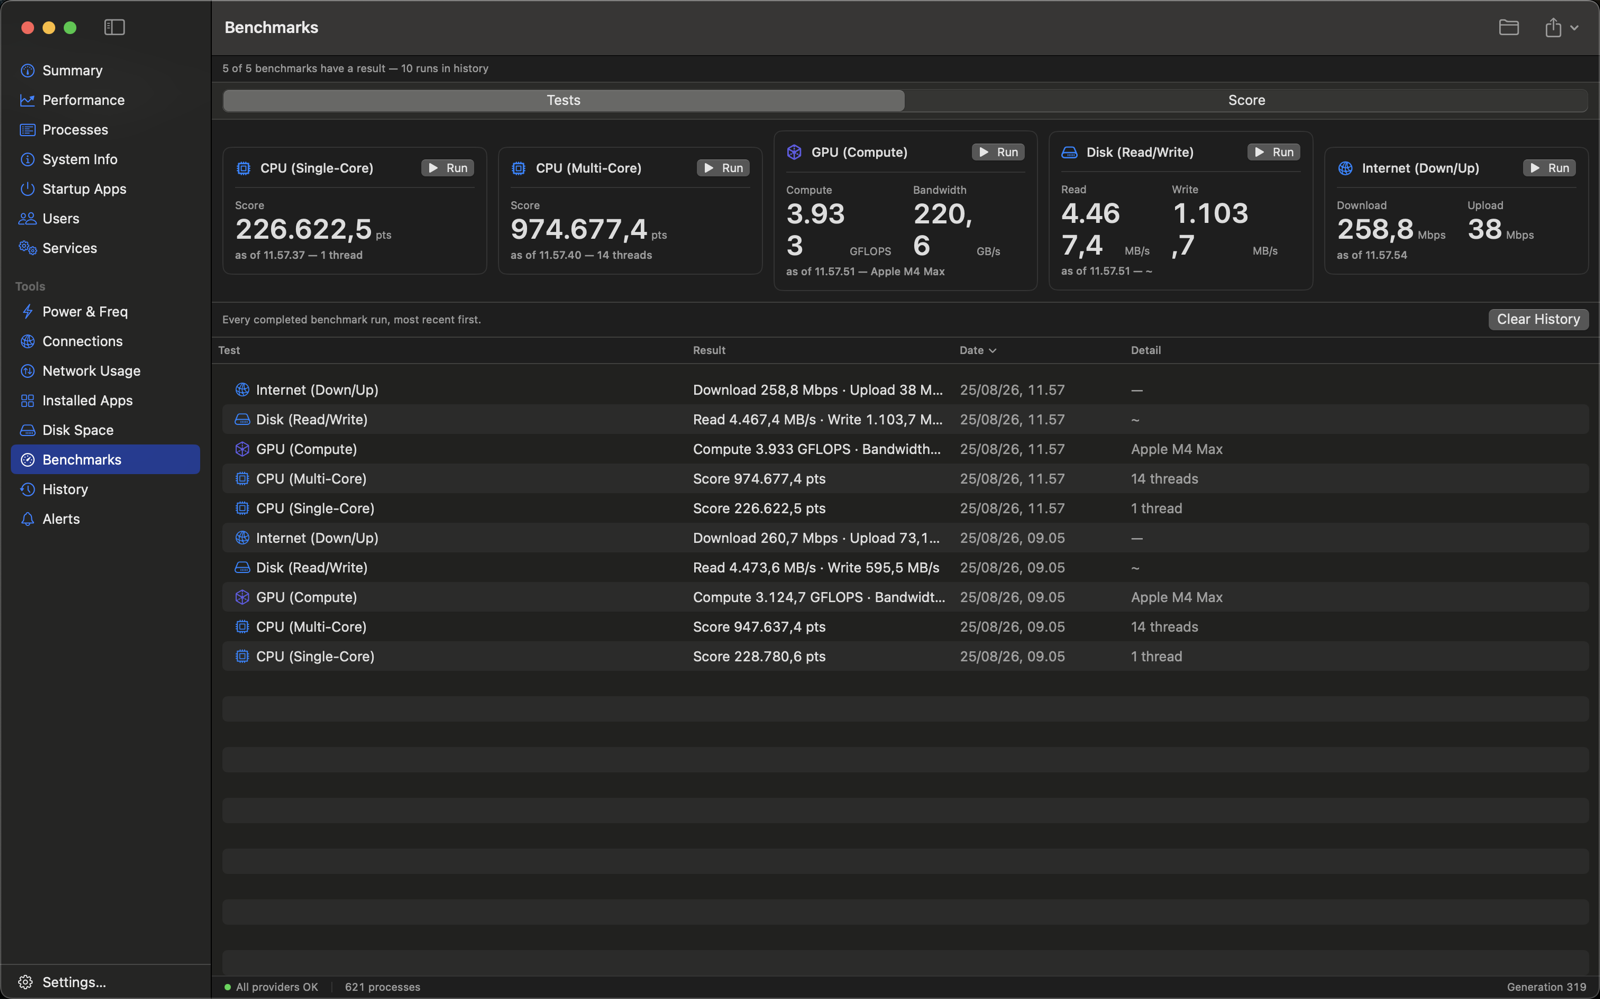
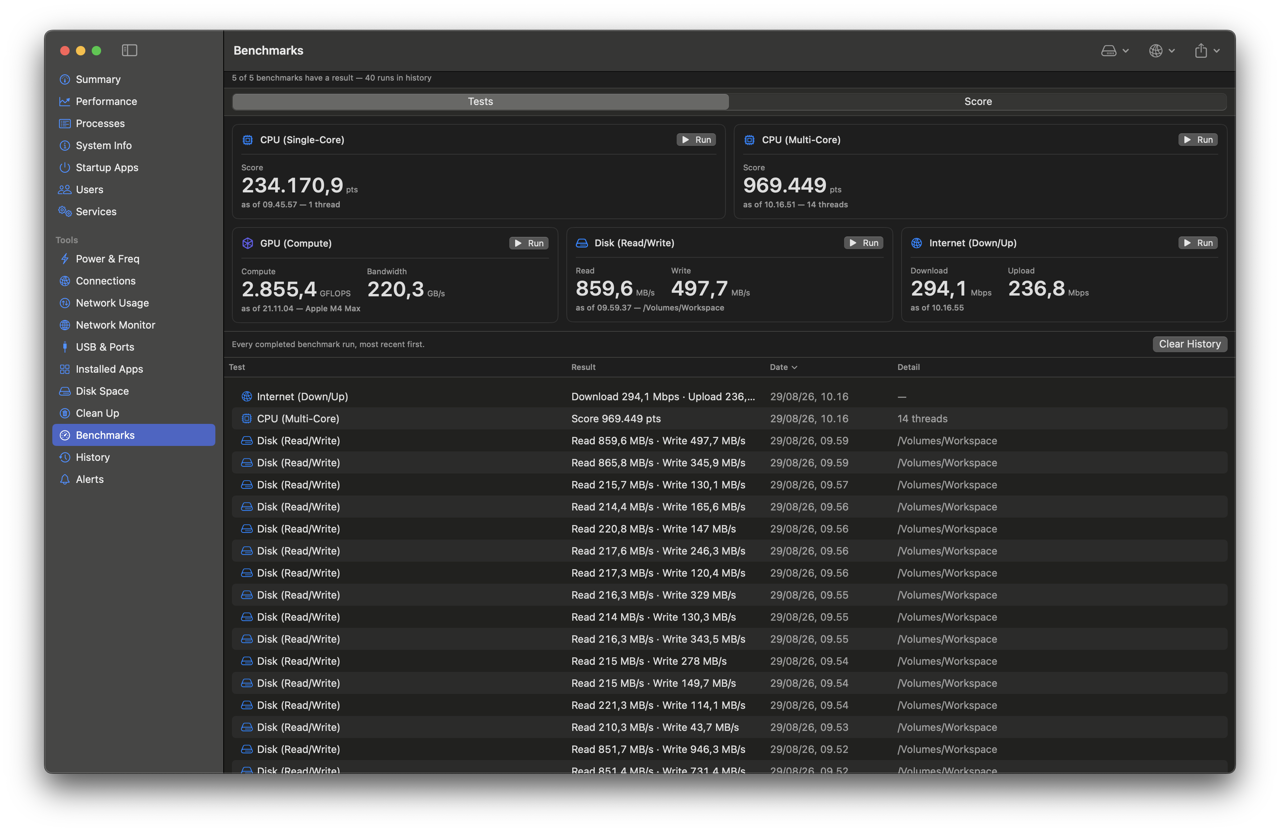
Add Network Monitor and USB & Ports screenshots to the README
New screenshots row plus feature bullets for the pages added since the
list was last touched (Network Monitor, USB & Ports, Clean Up, and the
Benchmarks disk/interface pickers), and a refreshed Benchmarks
screenshot showing the new toolbar pickers.

diff --git a/README.md b/README.md
@@ -35,11 +35,22 @@ no IPC. Providers that can't read a metric say **"Unavailable"** instead of gues
 - **Power & Freq** — an HWiNFO-style live sensor tree (Value/Min/Max) for CPU/GPU/SSD.
 - **Connections** — per-process socket table with exposure classification
   (loopback/LAN/Internet) and filter chips.
+- **Network Monitor** — a persistent outbound-connection log: which apps talked to which
+  hosts and when, with app icons, opt-in per-host country lookup, and a New Outbound Host
+  alert rule.
+- **USB & Ports** — every physical USB-C/MagSafe port with live volts/amps/watts, the
+  attached cable's e-marker identity, the negotiated link speed with a
+  cable-vs-device diagnosis, port health (liquid detection, fault counters), the USB
+  device tree, and an explicit cable-health test that catches marginal cables a link
+  rate can't show.
 - **Installed Apps** — `/Applications` scan with sizes, related-files finder, and Uninstall.
 - **Disk Space** — async scanner, bubble visualization, file-type legend, largest
   folders/files.
-- **Benchmarks** — CPU (single/multi-core), GPU compute, Disk R/W, Internet down/up, plus
-  an aggregate Score page with run history.
+- **Clean Up** — clear app caches, logs, and developer-tool build output, with everything
+  routed through the Trash.
+- **Benchmarks** — CPU (single/multi-core), GPU compute, Disk R/W (with a target-disk
+  picker), Internet down/up (with a network-interface picker), plus an aggregate Score
+  page with run history.
 
 **Extras**
 - Menu bar extra with a live compact readout and popover mini-dashboard (keeps collecting
@@ -63,6 +74,10 @@ no IPC. Providers that can't read a metric say **"Unavailable"** instead of gues
 | System Info | Benchmarks |
 |---|---|
 | ![System Info](docs/screenshots/systeminfo.png) | ![Benchmarks](docs/screenshots/benchmarks.png) |
+
+| Network Monitor | USB & Ports |
+|---|---|
+| ![Network Monitor](docs/screenshots/networkmonitoring.png) | ![USB & Ports](docs/screenshots/usbports.png) |
 
 ## Requirements
 
